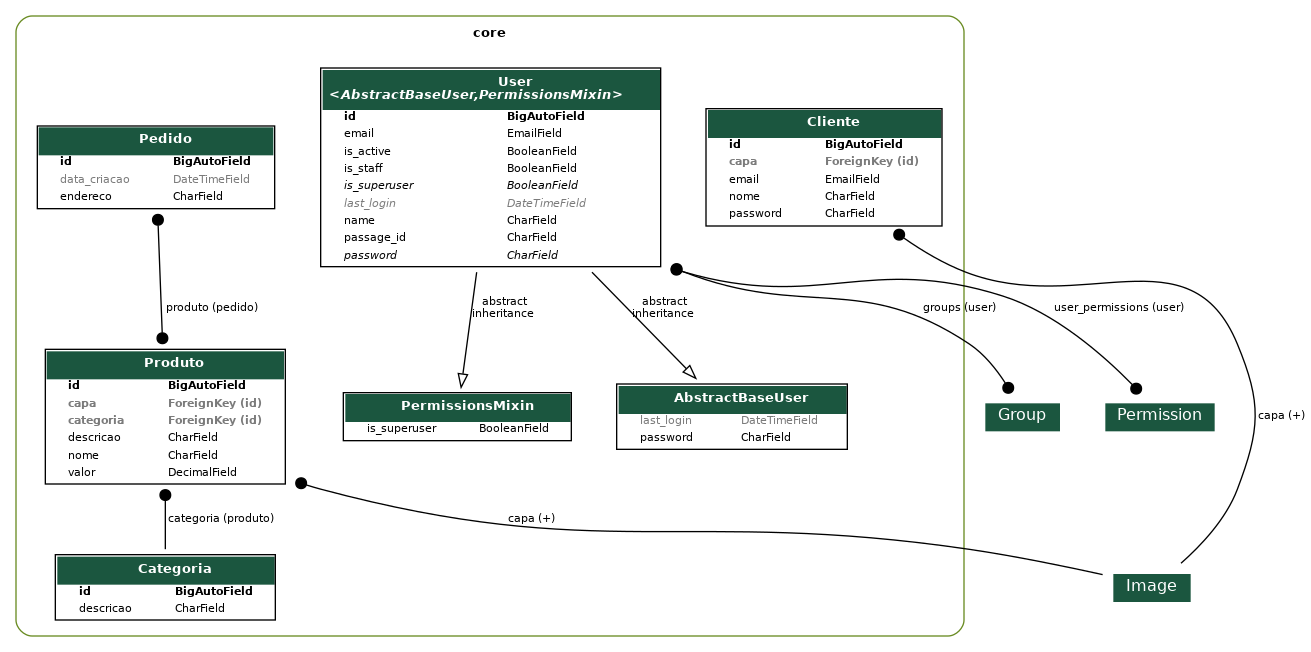
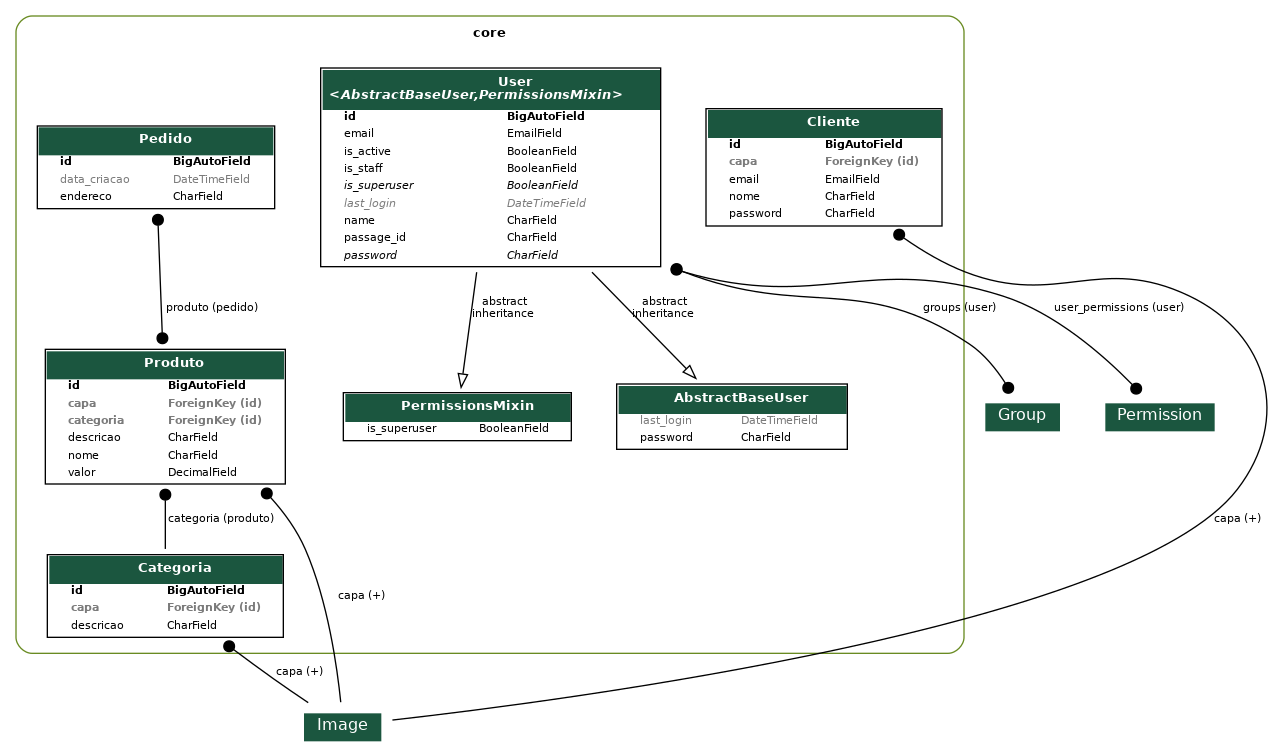
correction and addition of the img in the Category

diff --git a/core/serializers/categoria.py b/core/serializers/categoria.py
@@ -1,9 +1,23 @@
-from rest_framework.serializers import ModelSerializer
+from rest_framework.serializers import ModelSerializer, SlugRelatedField
 
 from core.models import Categoria
+from uploader.models import Image
+from uploader.serializers import ImageSerializer
 
 
 class CategoriaSerializer(ModelSerializer):
     class Meta:
         model = Categoria
         fields = "__all__"
+        capa_attachment_key = SlugRelatedField(
+            source="capa",
+            queryset=Image.objects.all(),
+            slug_field="attachment_key",
+            required=False,
+            write_only=True,
+        )
+        capa = ImageSerializer(required=False, read_only=True)
+
+
+class ClienteDetailSerializer(ModelSerializer):
+    capa = ImageSerializer(required=False)

diff --git a/core/migrations/0012_categoria_capa.py b/core/migrations/0012_categoria_capa.py
@@ -1,0 +1,27 @@
+# Generated by Django 5.0.6 on 2024-10-08 19:27
+
+import django.db.models.deletion
+from django.db import migrations, models
+
+
+class Migration(migrations.Migration):
+
+    dependencies = [
+        ("core", "0011_remove_pedido_produto_pedido_produto"),
+        ("uploader", "0001_initial"),
+    ]
+
+    operations = [
+        migrations.AddField(
+            model_name="categoria",
+            name="capa",
+            field=models.ForeignKey(
+                blank=True,
+                default=None,
+                null=True,
+                on_delete=django.db.models.deletion.SET_NULL,
+                related_name="+",
+                to="uploader.image",
+            ),
+        ),
+    ]

diff --git a/core/views/produto.py b/core/views/produto.py
@@ -1,14 +1,17 @@
+from django_filters import CharFilter, FilterSet
 from rest_framework.viewsets import ModelViewSet
-from django_filters import FilterSet, CharFilter
 
 from core.models import Produto
 from core.serializers import ProdutoSerializer
 
+
 class ProdutoFilter(FilterSet):
-    categoria = CharFilter(field_name='categoria__descricao', lookup_expr='contains')
+    categoria = CharFilter(field_name="categoria__descricao", lookup_expr="contains")
+
     class Meta:
         model = Produto
-        fields = ['categoria']
+        fields = ["categoria"]
+
 
 class ProdutoViewSet(ModelViewSet):
     queryset = Produto.objects.all()

diff --git a/core/models/pedido.py b/core/models/pedido.py
@@ -11,4 +11,6 @@ class Pedido(models.Model):
     produto = models.ManyToManyField(Produto, blank=True)
 
     def __str__(self):
-        return f"{self.id} - " + str(", ".join(str(produto.nome) + ": R$" + str(produto.valor) for produto in self.produto.all()))
+        return f"{self.id} - " + str(
+            ", ".join(str(produto.nome) + ": R$" + str(produto.valor) for produto in self.produto.all())
+        )

diff --git a/core/models/categoria.py b/core/models/categoria.py
@@ -1,8 +1,18 @@
 from django.db import models
 
+from uploader.models import Image
+
 
 class Categoria(models.Model):
     descricao = models.CharField(max_length=100)
+    capa = models.ForeignKey(
+        Image,
+        related_name="+",
+        on_delete=models.SET_NULL,
+        null=True,
+        blank=True,
+        default=None,
+    )
 
     def __str__(self):
         return f"{self.descricao}"

diff --git a/app/settings.py b/app/settings.py
@@ -142,7 +142,7 @@ REST_FRAMEWORK = {
     "DEFAULT_PAGINATION_CLASS": "rest_framework.pagination.PageNumberPagination",
     "DEFAULT_SCHEMA_CLASS": "drf_spectacular.openapi.AutoSchema",
     "PAGE_SIZE": 10,
-    'DEFAULT_FILTER_BACKENDS': ('django_filters.rest_framework.DjangoFilterBackend',),
+    "DEFAULT_FILTER_BACKENDS": ("django_filters.rest_framework.DjangoFilterBackend",),
 }
 
 SIMPLE_JWT = {

diff --git a/core/serializers/produto.py b/core/serializers/produto.py
@@ -21,6 +21,7 @@ class ProdutoSerializer(ModelSerializer):
 
 class ProdutoDetailSerializer(ModelSerializer):
     capa = ImageSerializer(required=False)
+
     class Meta:
         model = Produto
         fields = "__all__"
